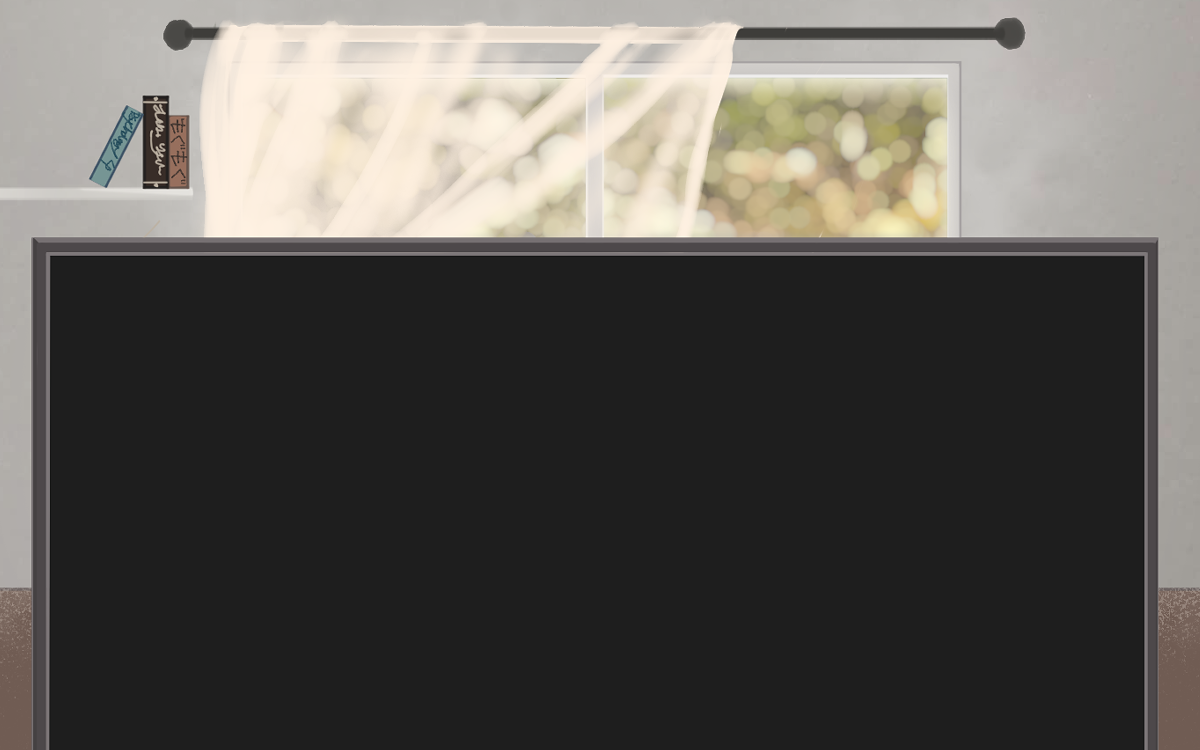
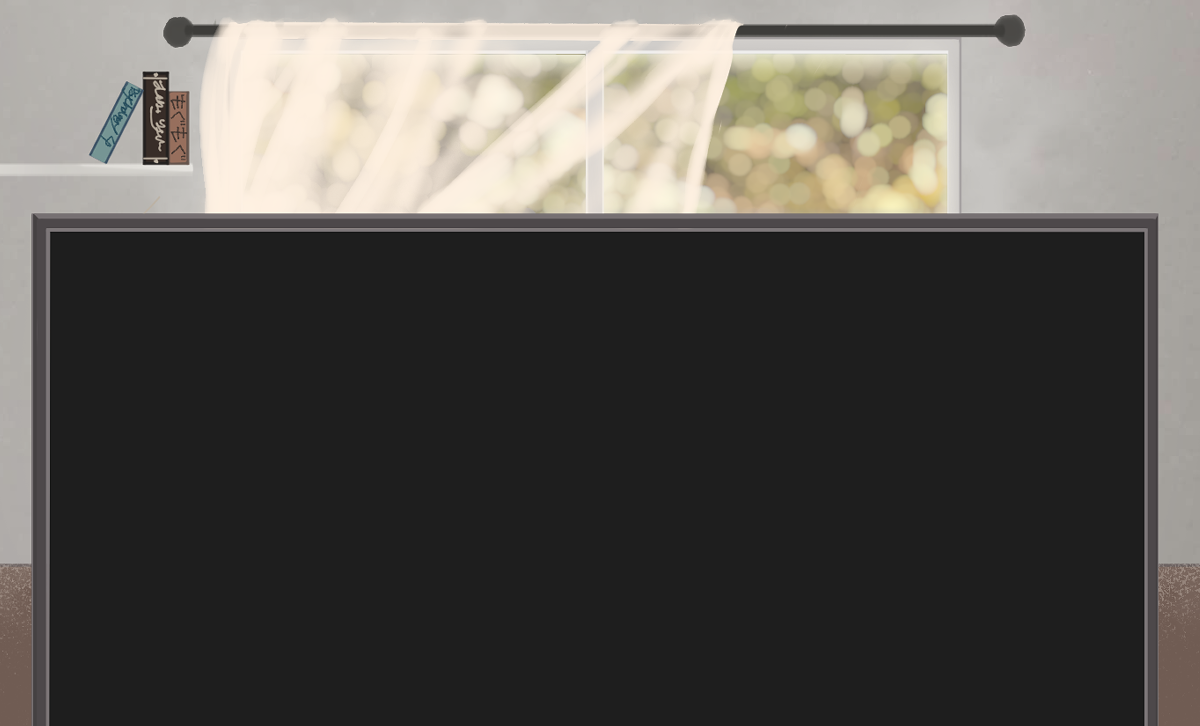
final portal

diff --git a/styles.css b/styles.css
@@ -16,6 +16,7 @@ img {
 /* Page styling */
 body {
     background-color: #333;
+    background-attachment: fixed;
     color: rgb(235, 235, 235);
     transition: all 2s;
     background-image: url(images/daymode.png);
@@ -38,7 +39,7 @@ body.switch {
     /* make sure the columns don't get too small and text stays readable */
     min-width: 900px;
     margin: auto;
-    padding-top: 23%;
+    padding-top: 20%;
     
 }
 
@@ -68,7 +69,10 @@ main section {
     flex: 1;
     border: 1px rgb(235, 235, 235) ;
     margin: 0 .25em;
-    padding: 1em;
+    padding-left: 1em;
+    padding-right: 1em;
+    padding-top: 1em;
+    padding-bottom: 0;
     text-align: center;
     font-family: "Jost", sans-serif;
     font-style: normal;
@@ -133,13 +137,31 @@ section.switch a:hover {
 
 button {
     position: fixed;
-    top: 52px;
+    bottom: 542px;
     left: 53px;
     padding: 0;
     background-color: transparent;
     color: #333;
     border: none;
     cursor: pointer;
+    animation: wiggle 0.1s linear 1ms infinite;
+}
+
+@keyframes wiggle {
+    0% { transform: rotate(0deg);
+    }
+    25%{
+        transform: rotate(1deg);
+    }
+    50%{
+        transform: rotate(0deg);
+    }
+    75%{
+        transform: rotate(-1deg);
+    }
+    100% {
+        transform: rotate(0deg);
+    }
 }
 
 button img {
